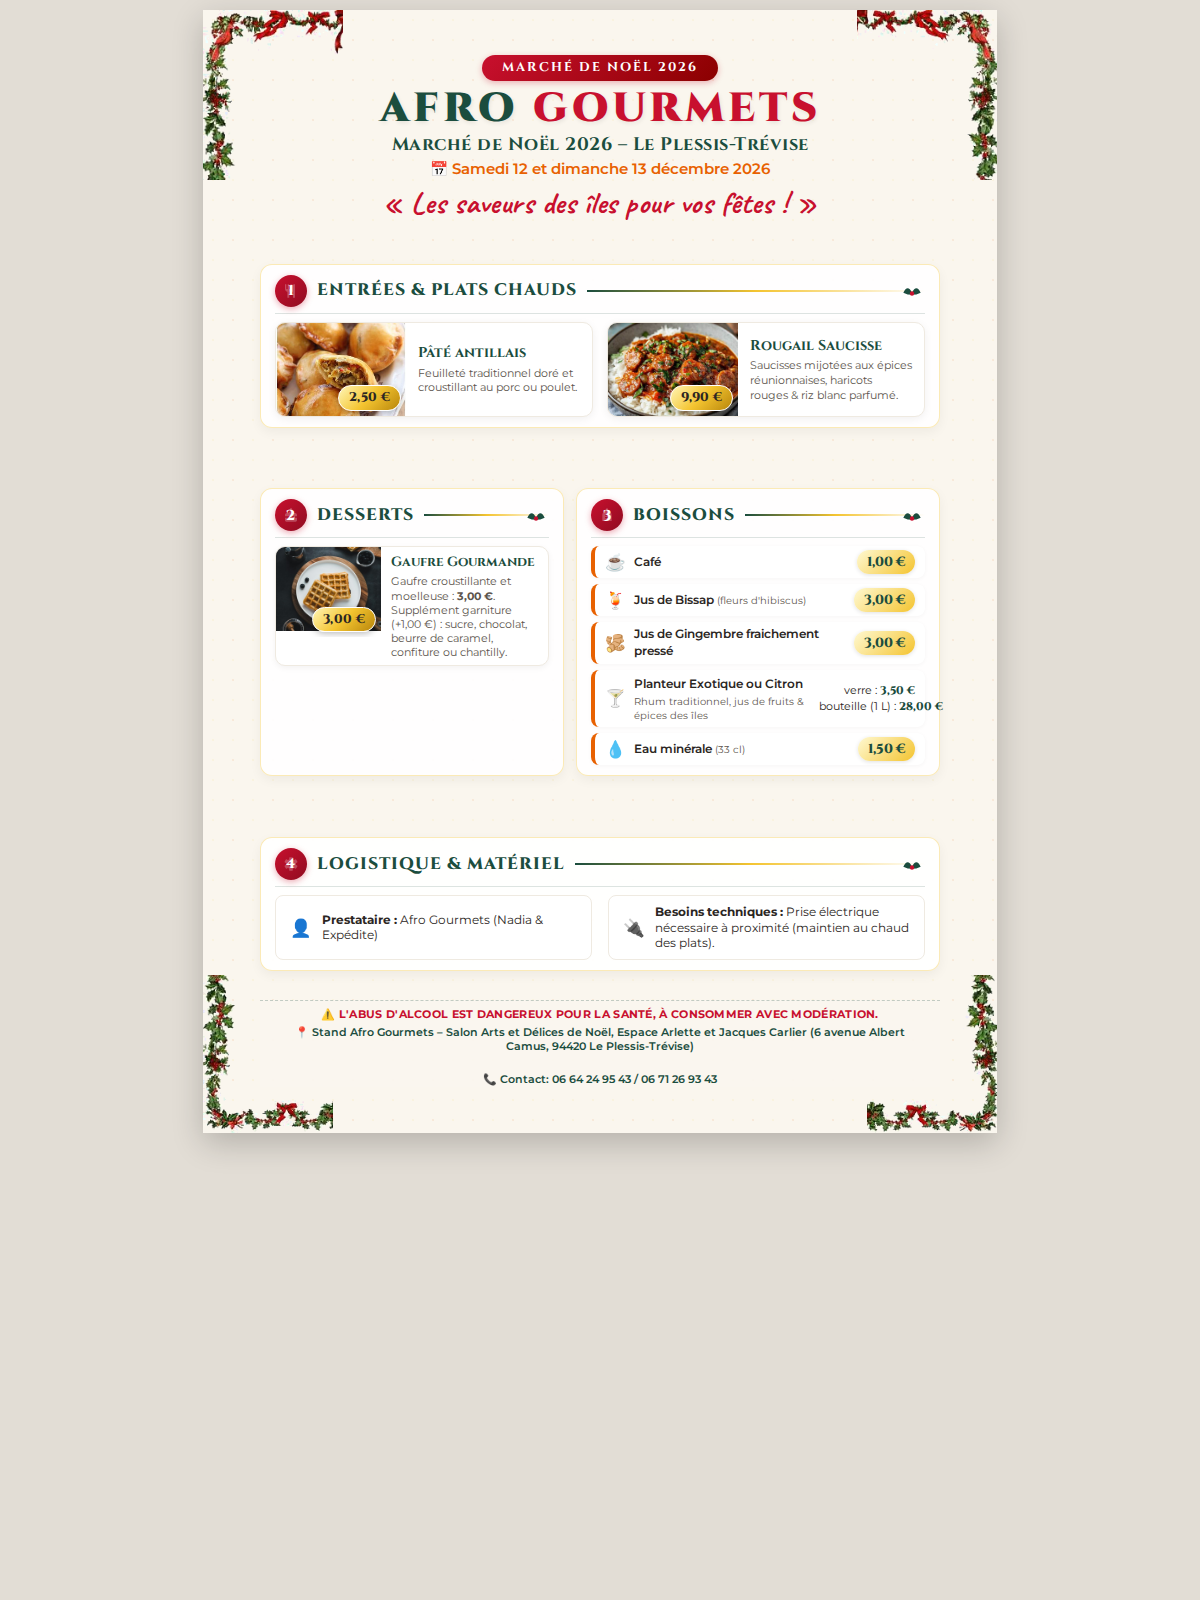
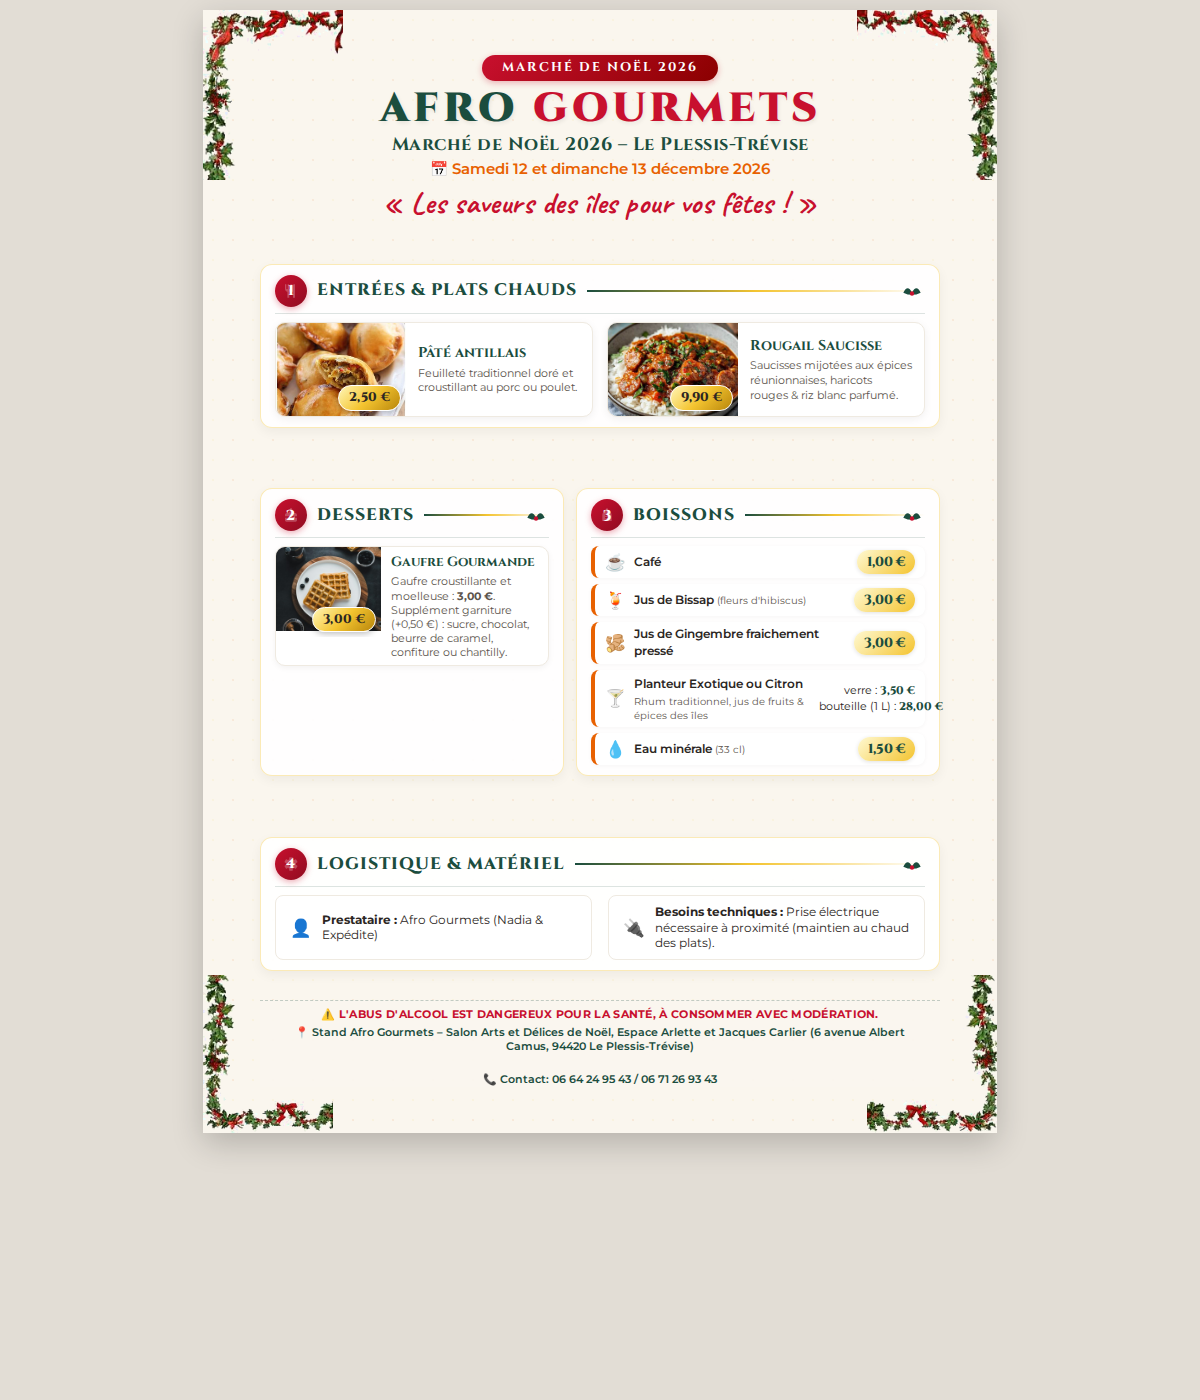
Mise a jour du tarif garniture gaufre a 0.50 EUR

Changed region(s): [[0.1542, 0.0307, 0.8325, 0.8293], [0.1542, 0.0, 0.3083, 0.1229], [0.7092, 0.0, 0.8325, 0.1229]]

diff --git a/index.html b/index.html
@@ -102,7 +102,7 @@
               </div>
               <div class="card-content">
                 <h3 class="card-title">Gaufre Gourmande</h3>
-                <p class="card-desc">Gaufre croustillante et moelleuse : <strong>3,00 €</strong>.<br>Supplément garniture (+1,00 €) : sucre, chocolat, beurre de caramel, confiture ou chantilly.</p>
+                <p class="card-desc">Gaufre croustillante et moelleuse : <strong>3,00 €</strong>.<br>Supplément garniture (+0,50 €) : sucre, chocolat, beurre de caramel, confiture ou chantilly.</p>
               </div>
             </div>
           </div>

diff --git a/README.md b/README.md
@@ -87,6 +87,6 @@ Le flyer utilise des règles `@media print` strictes calibrées pour le format A
 ## 🍽 Contenu du Stand
 
 - **Entrées & Plats :** Pâté antillais (porc/poulet) - 2,50 € | Rougail Saucisse, haricots rouges & riz blanc - 9,90 €
-- **Desserts :** Gaufre gourmande - 3,00 € (+1,00 € pour garniture au choix : sucre, chocolat, beurre de caramel, confiture ou chantilly)
+- **Desserts :** Gaufre gourmande - 3,00 € (+0,50 € pour garniture au choix : sucre, chocolat, beurre de caramel, confiture ou chantilly)
 - **Boissons :** Café - 1,00 € | Jus de Bissap - 3,00 € | Jus de Gingembre - 3,00 € | Planteur exotique ou citron (verre 3,50 € / bouteille 1 L 28,00 €) | Eau minérale - 1,50 €
 - **Logistique :** Prestataire Afro Gourmets (Nadia & Expédite), besoin technique : prise électrique à proximité (maintien au chaud).
